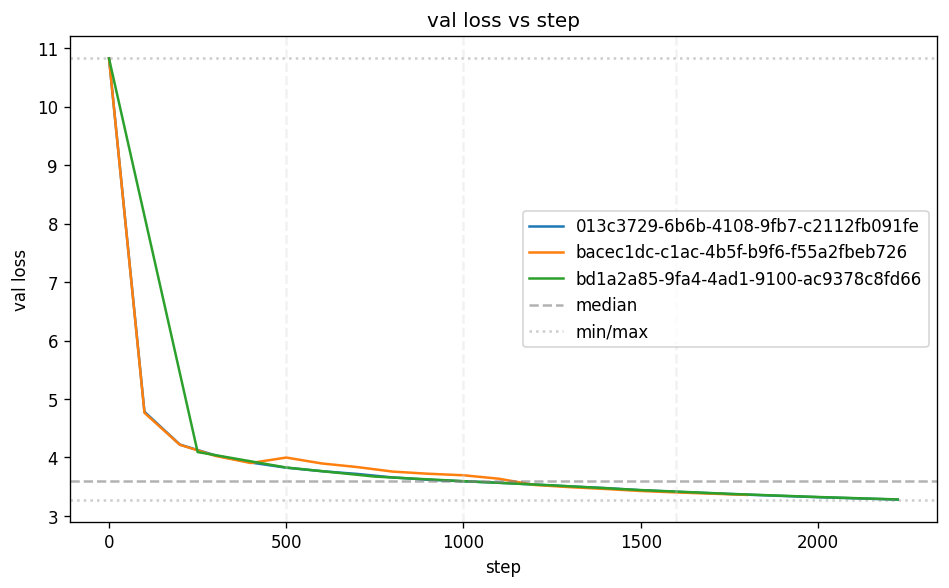
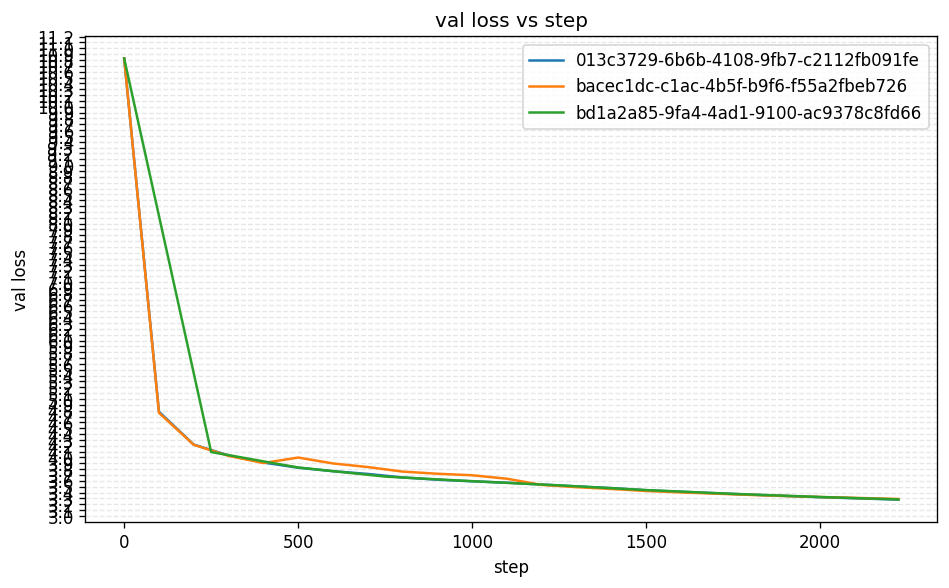
dumb

diff --git a/analyze_loss.py b/analyze_loss.py
@@ -42,10 +42,11 @@ def plot_runs(df: pd.DataFrame, out_dir: Path):
         fig, ax = plt.subplots(figsize=(8, 5))
         for run, run_df in sub.groupby("run"):
             ax.plot(run_df["step"], run_df["loss"], label=run)
-        # even-spaced horizontal guides (default 0.1)
-        tick_step = 0.1
-        ax.yaxis.set_major_locator(mticker.MultipleLocator(tick_step))
+        # major ticks every 0.5, minor grid at 0.1
+        ax.yaxis.set_major_locator(mticker.MultipleLocator(0.5))
+        ax.yaxis.set_minor_locator(mticker.MultipleLocator(0.1))
         ax.grid(which="major", axis="y", linestyle="--", alpha=0.3)
+        ax.grid(which="minor", axis="y", linestyle=":", alpha=0.2)
         ax.set_xlabel("step")
         ax.set_ylabel(f"{phase} loss")
         ax.set_title(f"{phase} loss vs step")
